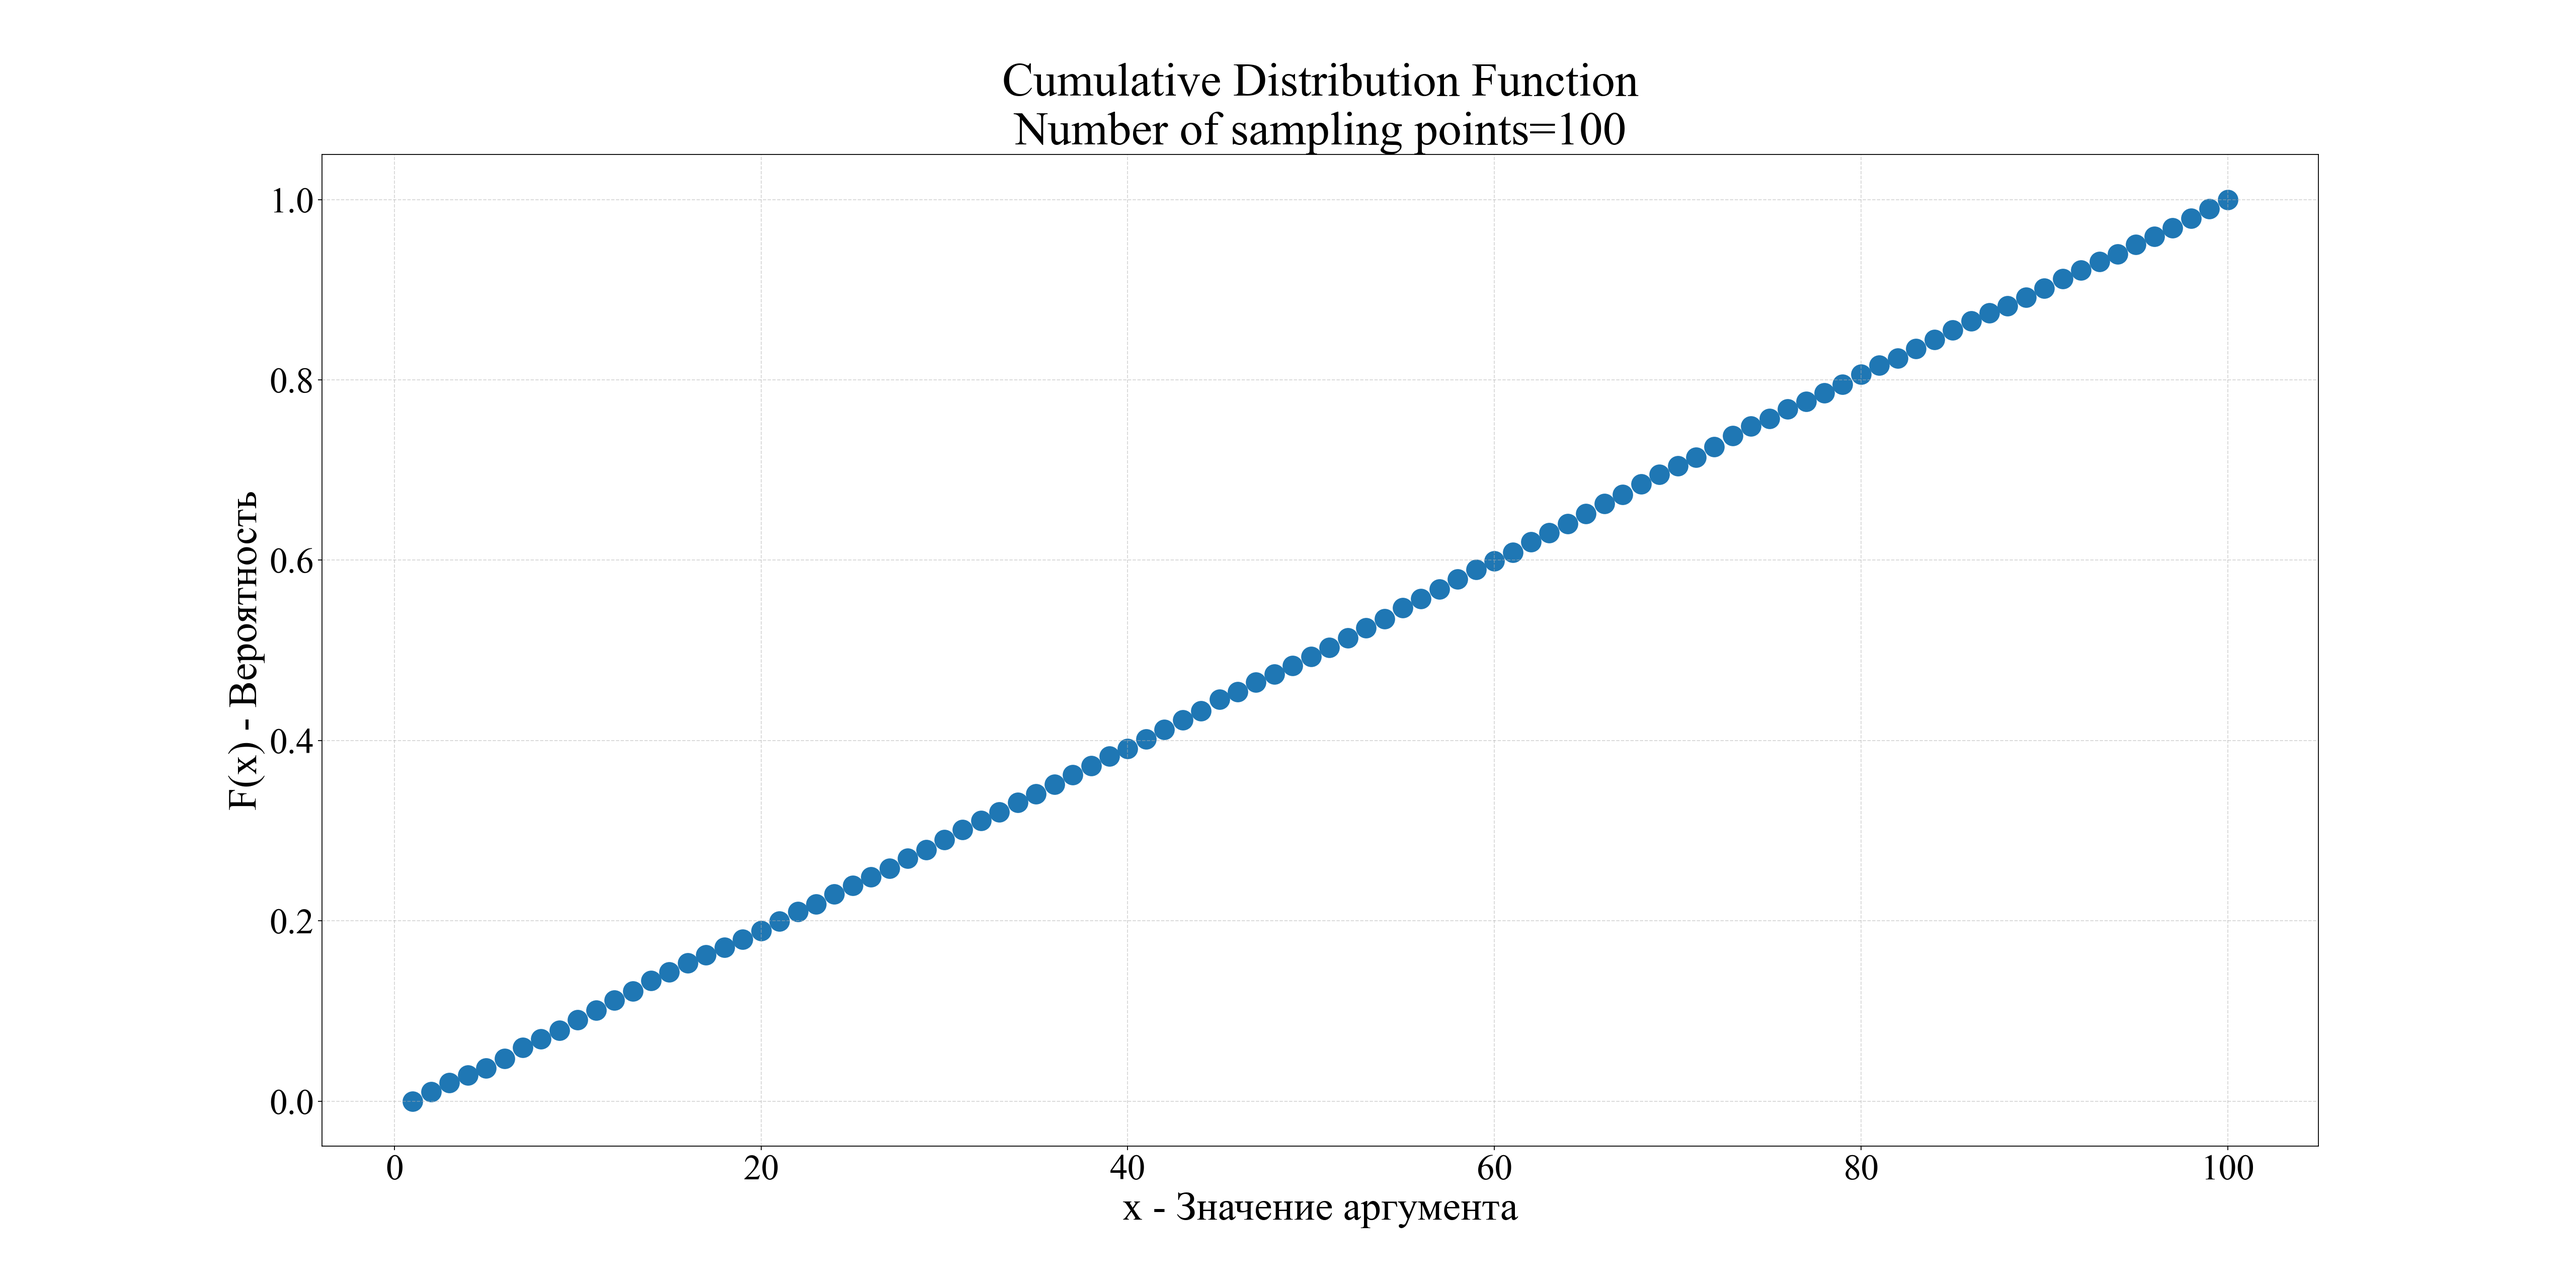
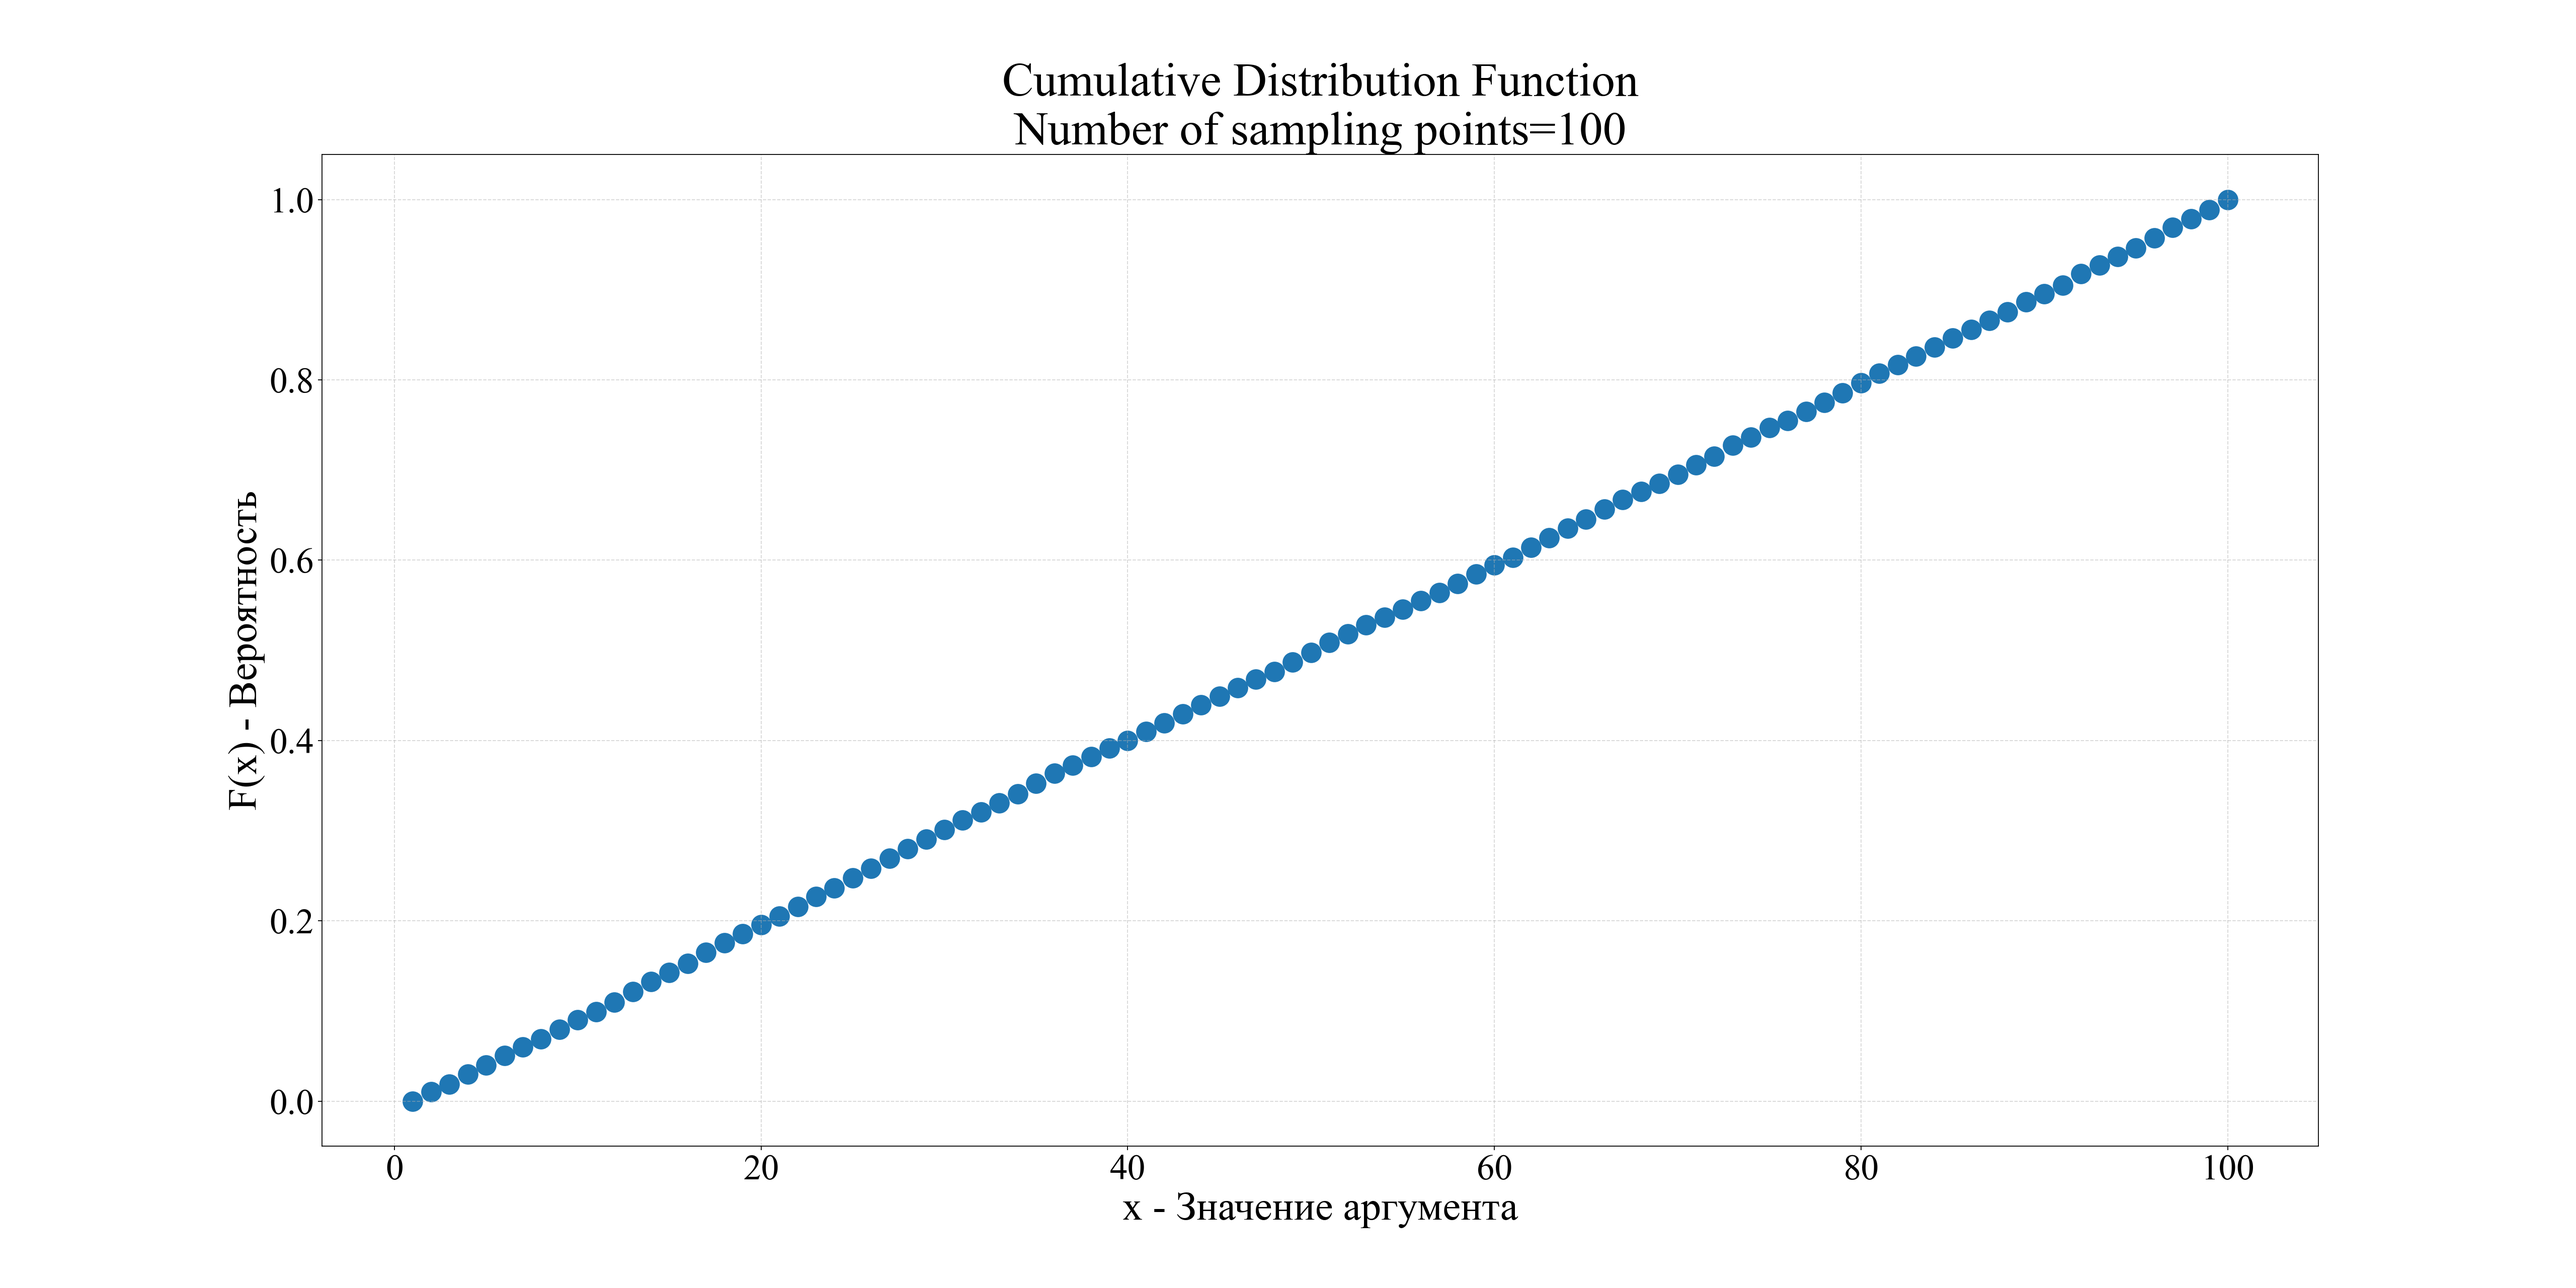
修改 密度分布中的错误

Changed region(s): [[0.5625, 0.1875, 0.8438, 0.4688], [0.2812, 0.5312, 0.5, 0.75], [0.5, 0.5, 0.5312, 0.5312]]

diff --git a/002 - lab2/main.py b/002 - lab2/main.py
@@ -8,7 +8,8 @@
 # -----------------------------------------
 import st_method
 import numpy as np
-
+import irandom
+import pandas as pd
 
 def uniform_distribution():
     """
@@ -55,16 +56,16 @@ def binomial_distribution():
     RU：Биномиальное распределение(2.2)
     :return: None
     """
-    arr_uniform = np.random.binomial(n=10, p=0.5, size=10000)
-    M = arr_uniform.mean()
-    D = arr_uniform.var()
+    arr_binomial = np.random.binomial(n=10, p=0.5, size=10000)
+    M = arr_binomial.mean()
+    D = arr_binomial.var()
 
     print('>' * 50, '\n',
           'Биномиальное распределение(2.2):\n',
           '\tM= ', M, '\n',
           '\tD= ', D, '\n')
 
-    arr_cdf = st_method.get_cdf(arr_uniform)
+    arr_cdf = st_method.get_cdf(arr_binomial)
     st_method.plot_cdf(cdf_ndarry=arr_cdf,
                        kind='scatter',
                        x_tick_min=1,
@@ -72,7 +73,7 @@ def binomial_distribution():
                        save_path='./result/【2.2】Binomial distribution/cdf_' + arr_cdf.size.__str__() + '.png')
 
     cut_num = 10
-    arr_pdf = st_method.get_pdf(arr_uniform, cut_num=cut_num)
+    arr_pdf = st_method.get_pdf(arr_binomial, cut_num=cut_num)
     st_method.plot_pdf(pdf_ndarry=arr_pdf,
                        kind='plot',
                        x_tick_min=1,
@@ -86,8 +87,49 @@ def binomial_distribution():
     return
 
 
+def geometric_distribution():
+    """
+    CN：几何分布
+    EN：Geometric distribution
+    RU：Геометрическое распределение
+    :return: None
+    """
+    # arr_geometric = np.random.geometric(p=0.5, size=10000)
+    arr_geometric = irandom.irngeo_1(p=0.5, size=10000)
+    print(arr_geometric.max())
+    M = arr_geometric.mean()
+    D = arr_geometric.var()
+
+    print('>' * 50, '\n',
+          'Геометрическое распределение(2.2):\n',
+          '\tM= ', M, '\n',
+          '\tD= ', D, '\n')
+
+    arr_cdf = st_method.get_cdf(arr_geometric)
+    st_method.plot_cdf(cdf_ndarry=arr_cdf,
+                       kind='plot',
+                       x_tick_min=1,
+                       x_tick_max=arr_geometric.max(),
+                       save_path='./result/【2.3.1】Geometric distribution/cdf_' + arr_cdf.size.__str__() + '.png')
+
+    #
+    # cut_num = 14
+    # arr_pdf = st_method.get_pdf(arr_geometric, cut_num=cut_num)
+    # st_method.plot_pdf(pdf_ndarry=arr_pdf,
+    #                    kind='plot',
+    #                    x_tick_min=1,
+    #                    x_tick_max=cut_num - 1,
+    #                    y_tick_min=0,
+    #                    y_tick_max=arr_pdf.max() + 0.1,
+    #                    cut_num=cut_num,
+    #                    save_path='./result/【2.3.1】Geometric distribution/pdf_' + (arr_pdf.size + 1).__str__() + '.png')
+
+    print('-' * 50, '\n')
+    return
+
 
 if __name__ == '__main__':
-    uniform_distribution()
-    binomial_distribution()
+    # uniform_distribution()
+    # binomial_distribution()
+    geometric_distribution()
     pass

diff --git a/002 - lab2/st_method.py b/002 - lab2/st_method.py
@@ -71,7 +71,7 @@ def plot_autocorrelation(ndarry: np.ndarray) -> np.ndarray:
 def get_cdf(ndarry: np.ndarray) -> np.ndarray:
     """
     累积分布函数（英语：Cumulative Distribution Function、CDF），又叫分布函数，是概率密度函数的积分，能完整描述一个实随机变量X的概率分布。
-    F(x)是分布函数，F(x)的取值表示变量小于x的概率是多少。比如说F(x)=0.85，x=0.7，那么意思是随机变量小于0.7的概率为0.85
+    F(x)是分布函数，F(x)的取值表示变量小于 x 的概率是多少。比如说 F(x)=0.85，x=0.7，那么意思是随机变量小于 0.7 的概率为 0.85
 
     Ru：Эмпирическая интегральная функция распределения
     :param ndarry: 变量值数组
@@ -81,10 +81,10 @@ def get_cdf(ndarry: np.ndarray) -> np.ndarray:
         print('Array can not be empty')
         return None
 
-    arr_step = np.linspace(start=ndarry.max(), stop=ndarry.min(), num=100)
     arr_cdf = []
+    arr_step = np.linspace(start=ndarry.min(), stop=ndarry.max(), num=100)
     for i in arr_step:
-        arr_cdf.append(np.count_nonzero(ndarry > i) / ndarry.size)
+        arr_cdf.append(np.count_nonzero(ndarry < i) / ndarry.size)
 
     # print(arr_cdf)
     return np.array(arr_cdf)
@@ -94,6 +94,7 @@ def plot_cdf(cdf_ndarry: np.ndarray, kind: str, x_tick_min: int, x_tick_max: int
     """
     绘制 cdf 为散点图
     :param cdf_ndarry:  cdf ndarry
+    :param kind: 绘制图像的类型，可以为 plot | scatter | bar
     :param x_tick_min: x 轴坐标的最小值（应该最初数组的最小值）
     :param x_tick_max: x 轴坐标的最大值（应该最初数组的最大值）
     :param save_path: 图像存储路径

diff --git a/002 - lab2/irandom.py b/002 - lab2/irandom.py
@@ -1,0 +1,38 @@
+# ------*------ coding: utf-8 ------*------
+# @Time    : 2022/2/20 13:55
+# @Author  : 冰糖雪狸 (NekoSilverfox)
+# @Project : Statistica-model
+# @File    : irandom.py
+# @Software: PyCharm
+# @Github  ：https://github.com/NekoSilverFox
+# -----------------------------------------
+
+import numpy as np
+
+
+def irngeo_1(p: float, size: int) -> np.ndarray:
+    """
+    【2.3.1】几何分布，算法 1
+    :param p: [0, 1] 的 float 类型
+    :param size: 数组大小
+    :return: 具有几何分布的 numpy.ndarry
+    """
+    if p < 0 or p > 1 or size <= 0:
+        raise ValueError
+
+    arr_irngeo = []
+
+    for i in range(size):
+        i_uniform = np.random.uniform(low=0, high=1)
+        p_it = p
+        j = 1
+
+        while (i_uniform - p_it) >= 0:
+            i_uniform -= p_it
+            p_it *= (1 - p)
+            j += 1
+
+        arr_irngeo.append(j)
+
+    return np.array(arr_irngeo)
+
